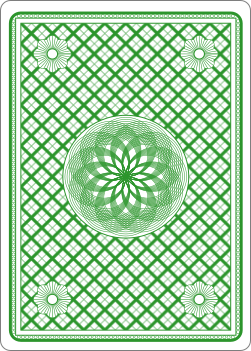
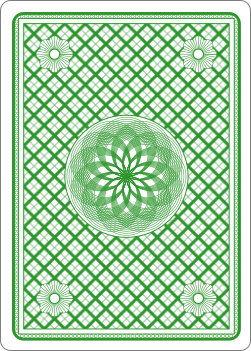
minor style improvements

diff --git a/src/components/TopRightControls/TopRightControls.tsx b/src/components/TopRightControls/TopRightControls.tsx
@@ -864,7 +864,7 @@ function MainSheet({
       case "front":
         return "315px";
       case "back":
-        return "590px";
+        return "570px";
       default:
         return "388px";
     }

diff --git a/src/components/playerIcons/PlayerCustomizationPicker.tsx b/src/components/playerIcons/PlayerCustomizationPicker.tsx
@@ -392,7 +392,7 @@ function PlayerCustomizationPicker({
 
     return (
       <div
-        className={`baseVertFlex h-[32rem] w-[22rem] gap-4 md:h-[25rem] md:w-[25rem] ${forSheet ? "bg-zinc-200" : ""} rounded-md p-4 transition-all`}
+        className={`baseVertFlex h-[30rem] w-[22rem] !justify-start gap-4 overflow-y-auto md:h-[25.5rem] md:w-[25rem] md:overflow-y-hidden ${forSheet ? "bg-zinc-200" : ""} rounded-md p-4 transition-all`}
       >
         <div className="baseFlex w-full !justify-start text-sm font-medium text-darkGreen">
           Pattern

diff --git a/src/components/sheets/PlayerCustomizationSheet.tsx b/src/components/sheets/PlayerCustomizationSheet.tsx
@@ -32,7 +32,7 @@ function PlayerCustomizationSheet() {
       case "front":
         return "315px";
       case "back":
-        return "580px";
+        return "550px";
       default:
         return "250px";
     }